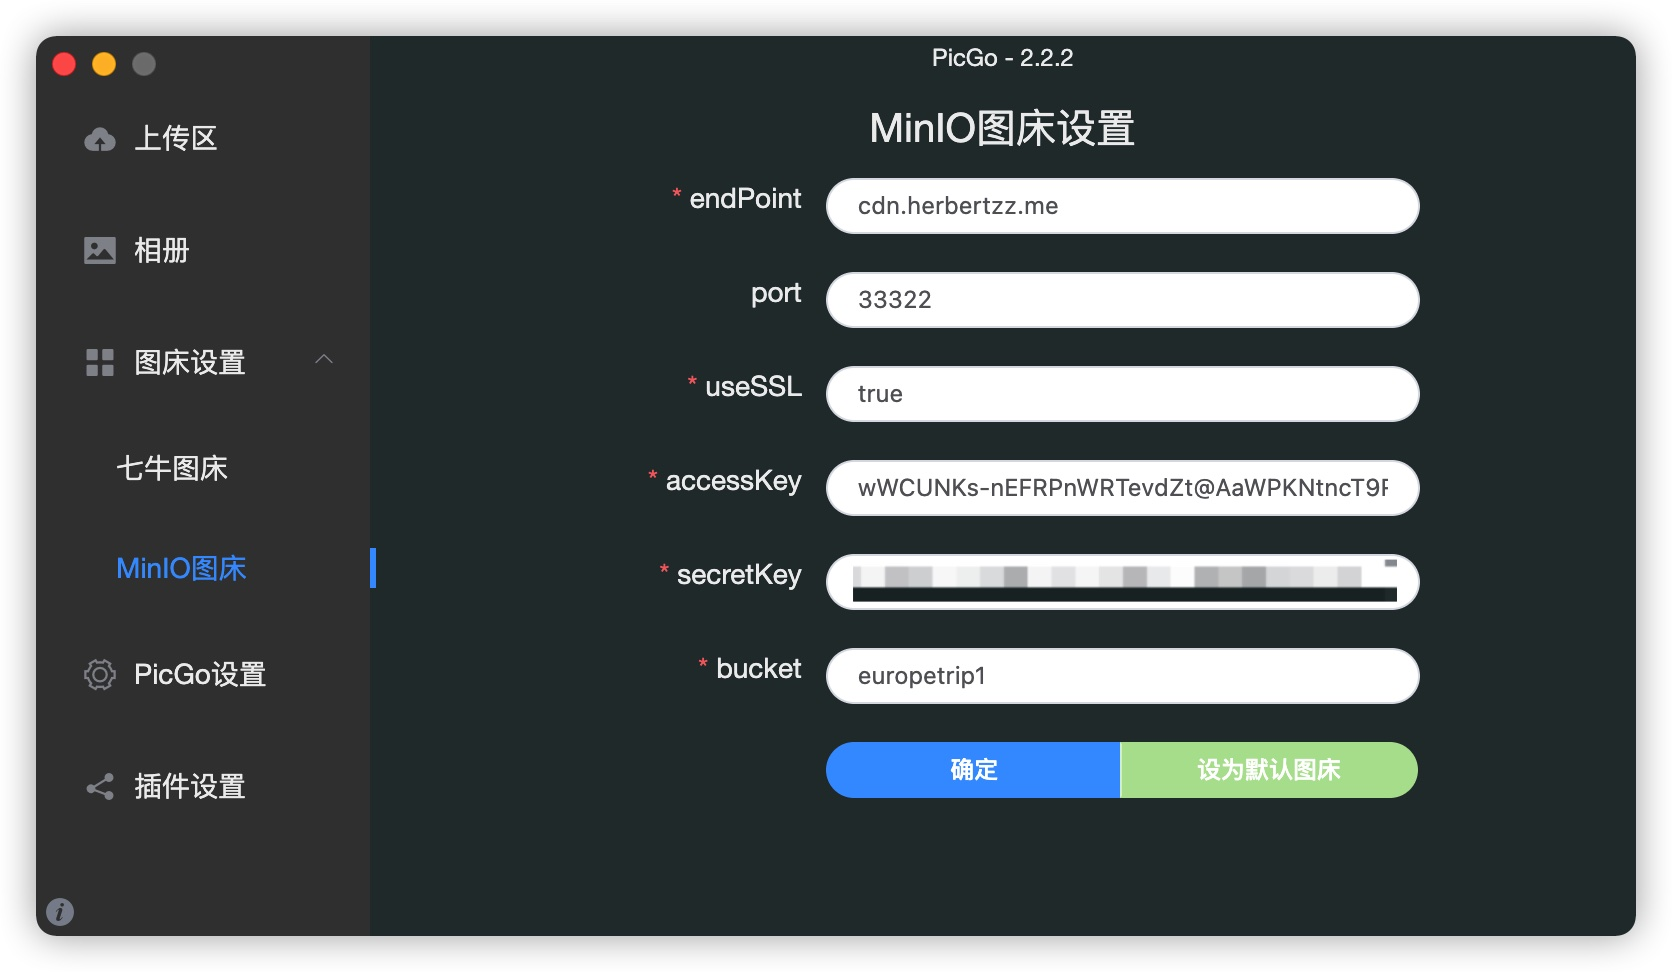
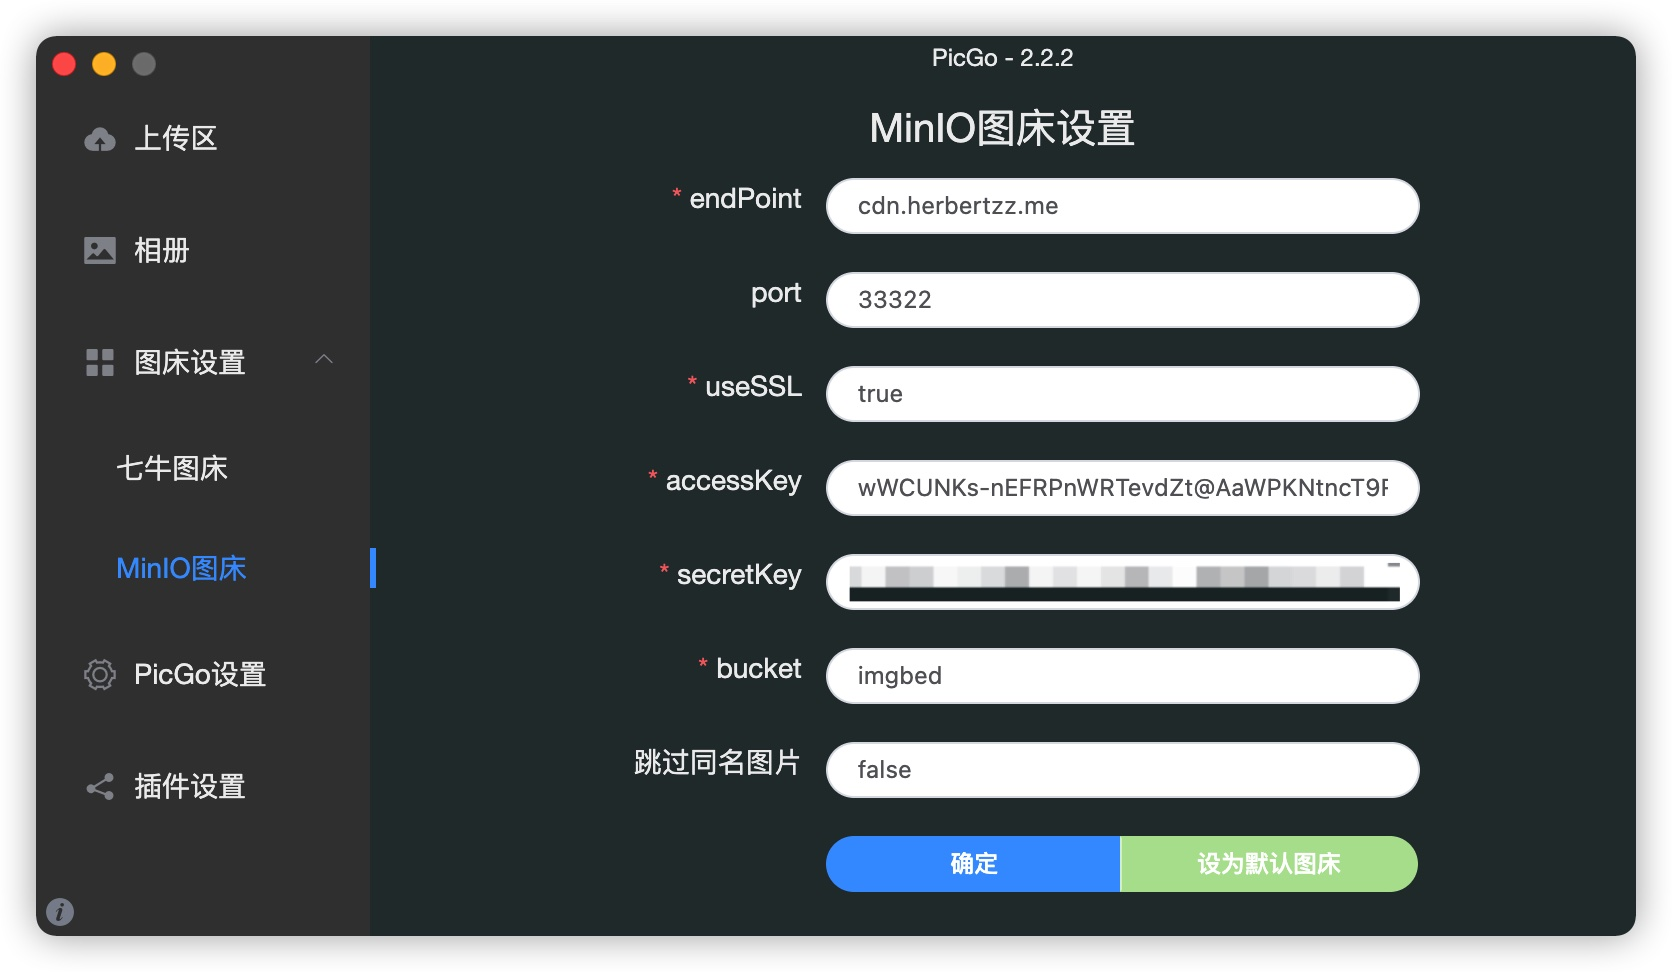
优化代码; 新增跳过同名图片的配置项

Changed region(s): [[0.3732, 0.7407, 0.8708, 0.9259], [0.4976, 0.679, 0.5909, 0.7099]]

diff --git a/src/index.js b/src/index.js
@@ -13,15 +13,15 @@ module.exports = (ctx) => {
   const register = () => {
     ctx.on('remove', async files => {
       try {
-        const { minioClient, bucket } = initMinioClient(ctx)
+        const { minioClient, config } = await initMinioClient(ctx)
 
         for (let i = 0, len = files.length; i < len; i++) {
           let file = files[i]
           if (file.type === 'minio') {
             // 检查文件是否存在，不存在则会抛出NotFound异常
-            await minioClient.statObject(bucket, file.fileName)
+            await minioClient.statObject(config.bucket, file.fileName)
             // 删除文件
-            await minioClient.removeObject(bucket, file.fileName)
+            await minioClient.removeObject(config.bucket, file.fileName)
           }
         }
       } catch (err) {
@@ -42,35 +42,24 @@ module.exports = (ctx) => {
     })
   }
   const handle = async function (ctx) {
-    const { minioClient, bucket, realImgUrlPre } = initMinioClient(ctx)
     try {
-      // 检查bucket是否存在, 不存在则报错
-      if (!await minioClient.bucketExists(bucket)) {
-        throw 'Bucket: ' + bucket + '不存在，请先创建该Bucket'
-        // 则创建该bucket(暂不实现该功能)
-        // await minioClient.makeBucket(bucket, 'us-east-1')
-      }
-    } catch (err) {
-      ctx.emit('notification', {
-        title: '上传失败',
-        body: JSON.stringify(err)
-      })
-      return
-    }
+      const { minioClient, config, realImgUrlPre } = await initMinioClient(ctx)
 
-    // 上传图片
-    try {
+      // 上传图片
       let imgList = ctx.output
+      let isFilterSameNameImage = config.isFilterSameNameImage !== 'false'
       for (let i = 0, len = imgList.length; i < len; i++) {
-        try {
-          // 检查文件是否存在，不存在则会抛出NotFound异常
-          await minioClient.statObject(bucket, imgList[i].fileName)
-          // 存在文件，则删除该文件
-          delete imgList[i]
-          continue
-        } catch (err) {
-          if (err.code !== 'NotFound') {
-            throw err
+        if (isFilterSameNameImage) {
+          try {
+            // 检查文件是否存在，不存在则会抛出NotFound异常
+            await minioClient.statObject(config.bucket, imgList[i].fileName)
+            // 存在文件，则删除该文件
+            delete imgList[i]
+            continue
+          } catch (err) {
+            if (err.code !== 'NotFound') {
+              throw err
+            }
           }
         }
 
@@ -83,25 +72,28 @@ module.exports = (ctx) => {
         let metaData = {
           'Content-Type': imageMime[ext] ? imageMime[ext] : 'application/octet-stream'
         }
-        await minioClient.putObject(bucket, imgList[i].fileName, image, image.length, metaData)
+        await minioClient.putObject(config.bucket, imgList[i].fileName, image, image.length, metaData)
 
         delete imgList[i].base64Image
         delete imgList[i].buffer
         imgList[i]['imgUrl'] = realImgUrlPre + imgList[i].fileName
       }
 
-      // 清除数组中的空值
-      let len = imgList.length
-      imgList = imgList.filter(e => e)
-      if (len !== imgList.length) {
-        let s = len - imgList.length
-        let msg = `存在${s}个同名文件(处理方式: 跳过)`
-        ctx.log.warn(msg)
-        ctx.emit('notification', {
-          title: '上传异常',
-          body: msg
-        })
+      if (isFilterSameNameImage) {
+        // 清除数组中的空值
+        let len = imgList.length
+        imgList = imgList.filter(e => e)
+        if (len !== imgList.length) {
+          let s = len - imgList.length
+          let msg = `存在${s}个同名文件(处理方式: 跳过)`
+          ctx.log.warn(msg)
+          ctx.emit('notification', {
+            title: '上传异常',
+            body: msg
+          })
+        }
       }
+
       ctx.output = imgList
     } catch (err) {
       ctx.emit('notification', {
@@ -112,10 +104,10 @@ module.exports = (ctx) => {
   }
 
   // 初始化minio客户端
-  const initMinioClient = (ctx) => {
+  const initMinioClient = async (ctx) => {
     let userConfig = ctx.getConfig('picBed.minio')
     if (!userConfig) {
-      throw new Error('uploader 配置不存在')
+      throw 'MinIO图床设置不存在[401]'
     }
 
     const useSSL = userConfig.useSSL === 'true'
@@ -130,12 +122,19 @@ module.exports = (ctx) => {
       secretKey: userConfig.secretKey
     })
 
+    // 检查bucket是否存在, 不存在则报错
+    if (!await minioClient.bucketExists(userConfig.bucket)) {
+      throw `未找到 ${userConfig.bucket} Bucket[404]`
+      // 则创建该bucket(暂不实现该功能)
+      // await minioClient.makeBucket(userConfig.bucket, 'us-east-1')
+    }
+
     // 图片基本url拼接
     let realImgUrlPre = useSSL ? 'https://' : 'http://'
     realImgUrlPre += userConfig.endPoint + ':' + port
     realImgUrlPre += '/' + userConfig.bucket + '/'
 
-    return { minioClient, bucket: userConfig.bucket, realImgUrlPre }
+    return { minioClient, config: userConfig, realImgUrlPre }
   }
 
   const config = ctx => {
@@ -191,13 +190,19 @@ module.exports = (ctx) => {
         required: true,
         message: 'bucket',
         alias: 'bucket'
+      },
+      {
+        name: 'isFilterSameNameImage',
+        type: 'input',
+        default: userConfig.isFilterSameNameImage,
+        required: false,
+        message: '默认: true, 如不使用该功能请设置为false',
+        alias: '跳过同名图片'
       }
     ]
   }
   return {
     uploader: 'minio',
-    // config: config,
     register
-
   }
 }

diff --git a/README.md b/README.md
@@ -13,12 +13,13 @@ npm i picgo-plugin-minio
 ```
 
 ### 使用
-* endPoint	对象存储服务的URL
-* port	    TCP/IP端口号。可选值，如果是使用HTTP的话，默认值是80；如果使用HTTPS的话，默认值是443。
-* useSSL	true代表使用HTTPS
-* accessKey	Access key是唯一标识你的账户的用户ID。
-* secretKey	Secret key是你账户的密码。
-* bucket    存储文件的桶名。
+* `endPoint`	对象存储服务的URL
+* `port`	    TCP/IP端口号。可选值，如果是使用HTTP的话，默认值是80；如果使用HTTPS的话，默认值是443。
+* `useSSL`	    true代表使用HTTPS
+* `accessKey`	Access key是唯一标识你的账户的用户ID。
+* `secretKey`	Secret key是你账户的密码。
+* `bucket`      存储文件的桶名。
+* `跳过同名图片`  开启时，会检查图床是否存在同名的文件，存在则跳过该文件的上传；默认: true, 不使用请设为false。(2.1.1+)
   
 ![Demo](https://github.com/Herbertzz/picgo-plugin-minio/blob/master/static/demo.jpg?raw=true)
 
